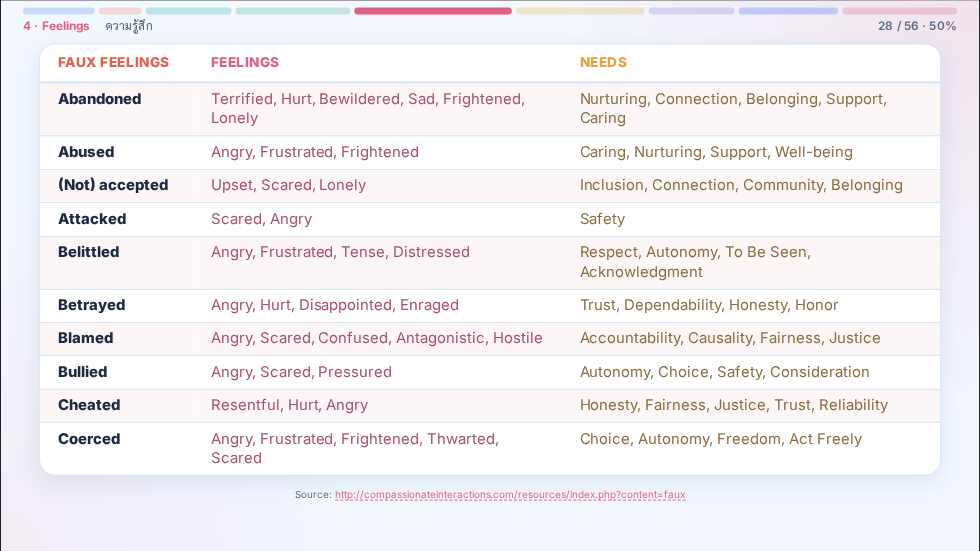
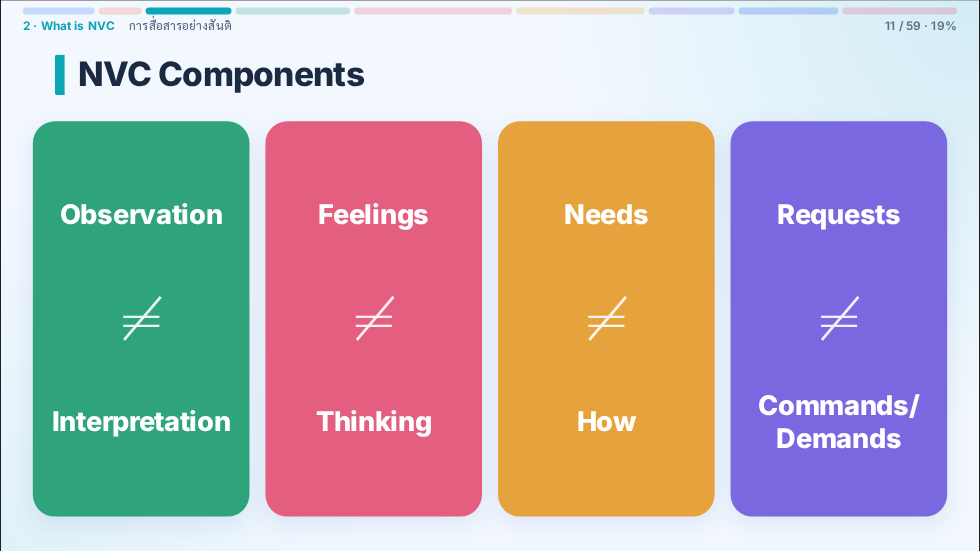
Enlarge compare grid text and break Commands/Demands label

diff --git a/slide/style.css b/slide/style.css
@@ -219,10 +219,12 @@ html.dark .brand-logo { filter: none; opacity: 0.9; }
   grid-template-rows: 1fr auto 1fr;
   align-items: center; justify-items: center; text-align: center;
   padding: 1.2rem 0.6rem;
-  font-weight: 700;
-  font-size: 1.2rem;
+  font-weight: 800;
+  font-size: 1.7rem;
+  line-height: 1.2;
+  letter-spacing: -0.01em;
 }
-.compare-grid .neq { font-size: 2.6rem; font-weight: 300; line-height: 1; opacity: 0.9; }
+.compare-grid .neq { font-size: 3.6rem; font-weight: 300; line-height: 1; opacity: 0.9; }
 
 
 

diff --git a/slide/slides.md b/slide/slides.md
@@ -210,7 +210,7 @@ module: 2
   <div class="c-req">
     <span>Requests</span>
     <span class="neq" v-click="4">≠</span>
-    <span v-click="4">Commands/Demands</span>
+    <span v-click="4">Commands/<br>Demands</span>
   </div>
 </div>
 
